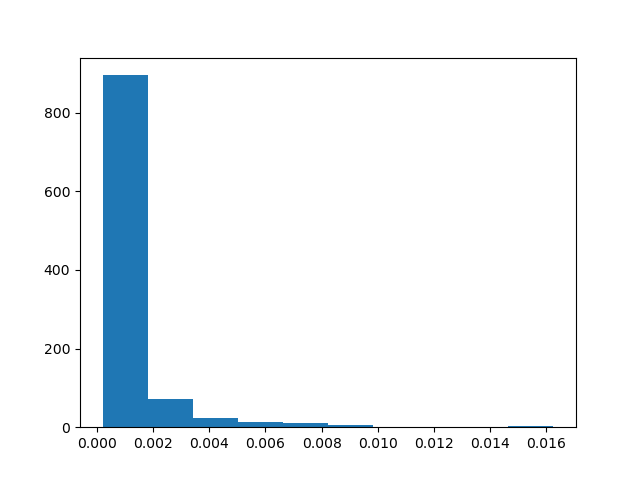
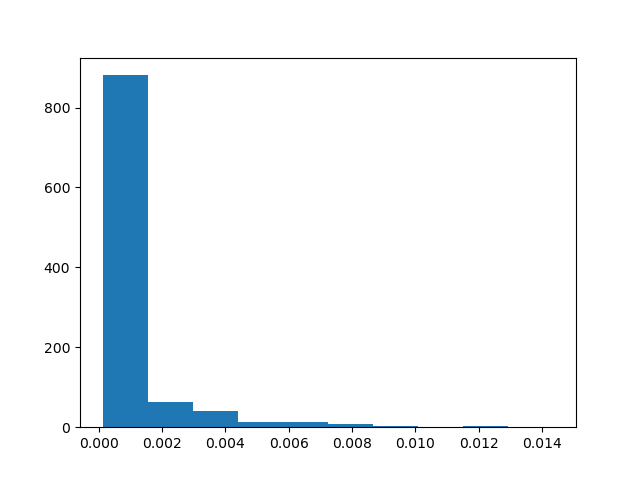
update

diff --git a/experiments.py b/experiments.py
@@ -17,10 +17,10 @@ def jsdivergence(p, q):
     return kldivergence(p, m)*0.5 + kldivergence(q, m)*0.5
 
 def main():
-    num_var = 10
+    num_var = 13
     beta = 1
-    max_iter = 1000
-    num_samples = 10000
+    max_iter = 1500
+    num_samples = 30000
     rate = 0.3
     
     np.random.seed(0)    
@@ -122,7 +122,7 @@ def main():
     plt.figure()
     plt.hist(target, bins=10)
     #plt.show()
-    plt.savefig('prob.png')
+    plt.savefig('prob' + '_' + '%2d' % num_var  +  '.png')
     
     dist = np.zeros(2**num_var)
     for i in range(2**num_var): dist[i] = target_pdf(allcases[i])
@@ -131,7 +131,7 @@ def main():
     plt.figure()
     plt.hist(dist, bins=10)
     #plt.show()
-    plt.savefig('dist.png')
+    plt.savefig('dist' + '_' + '%2d' % num_var  +  '.png')
 
     labels, freq = frequency(samples)
     dist_em = probbyfreq(allcases, freq)
@@ -141,11 +141,11 @@ def main():
     plt.figure()
     plt.hist(dist_em, bins=10)
     #plt.show()
-    plt.savefig('dist_em.png')
+    plt.savefig('dist_em' + '_' + '%2d' % num_var  +  '.png')
 
     plt.figure()
     plt.hist(labels, bins=10)
-    plt.savefig('label.png')
+    plt.savefig('label' + '_' + '%2d' % num_var  +  '.png')
 
     kl = kldivergence(dist_em, dist)
     print('kl divergence between ground truth and empirical truth', kl)
@@ -154,7 +154,7 @@ def main():
     
     marginal_em = marginalize4Ising(samples)
     marginal_th = marginalize4Ising_truth(allcases, dist)
-    print('distance between marginal_em and marginal_th', np.linalg.norm(marginal_em-marginal_th)/np.linalg.norm(marginal_th))
+    print('distance between margin_em and margin_th', np.linalg.norm(marginal_em-marginal_th)/np.linalg.norm(marginal_th))
 
 
     #Tedges = []
@@ -213,13 +213,13 @@ def main():
     print('js divergence & its square(batch) =', js_b, js_b**2)
     
     marginal_pd = marginalize4Ising_truth(allcases, allcases_pred/sum(allcases_pred))
-    print('distance between marginal_pd and marginal_th', np.linalg.norm(marginal_pd-marginal_th)/np.linalg.norm(marginal_th))
+    print('distance between margin_pd and margin_th', np.linalg.norm(marginal_pd-marginal_th)/np.linalg.norm(marginal_th))
             
     
     plt.figure()
     plt.hist(allcases_pred/sum(allcases_pred), bins=10)
     #plt.show()
-    plt.savefig('pred.png')
+    plt.savefig('pred' + '_' + '%2d' % num_var  +  '.png')
 
     rekfoldvalidation(model, samples_preprocessed, labels, epoches, batch_size, 5)
 
@@ -243,12 +243,12 @@ def main():
     print('js divergence & its square(batch) =', js_b, js_b**2)
 
     marginal_pd = marginalize4Ising_truth(allcases, allcases_pred/sum(allcases_pred))
-    print('distance between marginal_pd and marginal_th', np.linalg.norm(marginal_pd-marginal_th)/np.linalg.norm(marginal_th))
+    print('distance between margin_pd and margin_th', np.linalg.norm(marginal_pd-marginal_th)/np.linalg.norm(marginal_th))
      
 
     plt.figure()
     plt.hist(allcases_pred/sum(allcases_pred), bins=10)
     #plt.show()
-    plt.savefig('pred_em.png')    
+    plt.savefig('pred_em' + '_' + '%2d' % num_var  +  '.png')    
 if __name__ == "__main__":
     main()
